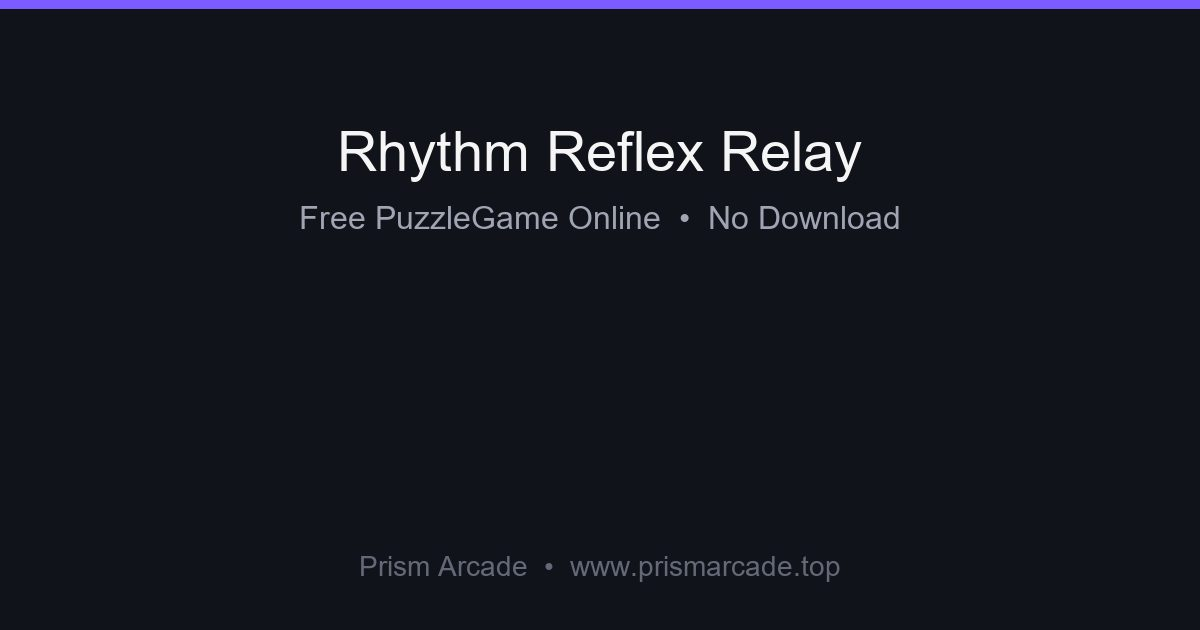
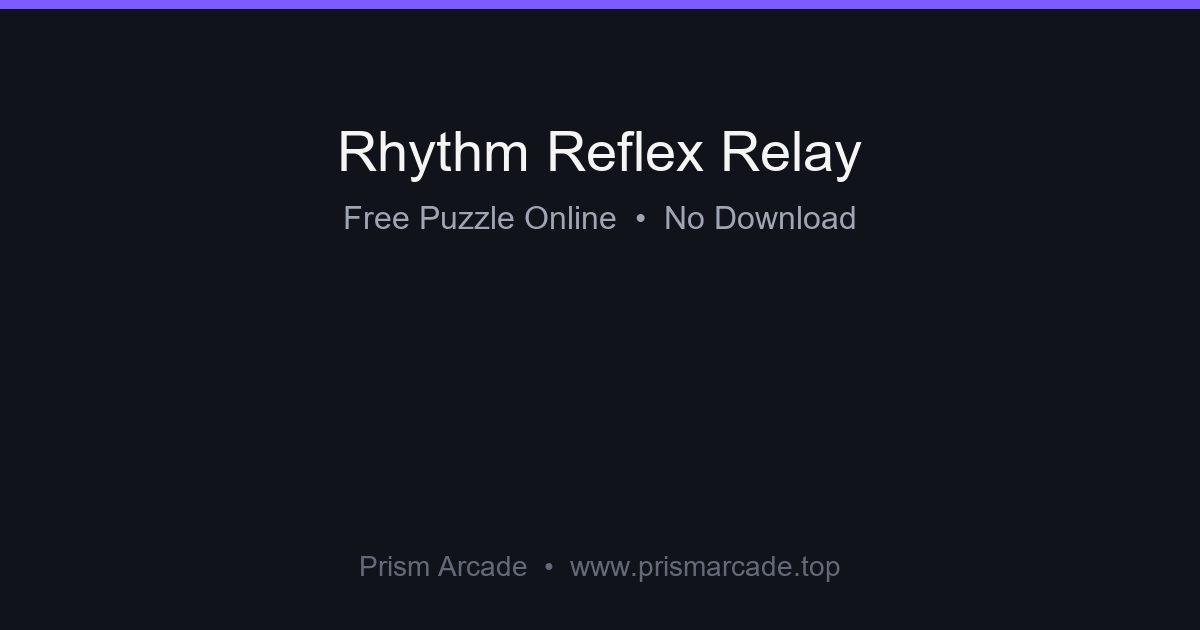
Refresh OG images to new brand + fix category label
- tools/seo_games_data.json: 'Flappy Bird' -> 'Sky Flap' in all 12 refs.
- tools/gen_og_images.py: map schema.org category enums to human labels
  (PuzzleGame->Puzzle, ActionGame->Action, ...) so the OG image no longer
  prints 'Free ActionGame Online'.
- Regenerated all 20 og/*.jpg (home/about + 18 games).

Changed region(s): [[0.2467, 0.3317, 0.7708, 0.3619]]

diff --git a/tools/gen_og_images.py b/tools/gen_og_images.py
@@ -30,6 +30,21 @@ GAMES_DATA = BASE / "seo_games_data.json"
 
 W, H = 1200, 630
 
+# schema.org game category enum -> human-readable label for the OG image.
+CATEGORY_LABEL = {
+    "PuzzleGame": "Puzzle",
+    "ActionGame": "Action",
+    "BoardGame": "Board Game",
+    "TriviaGame": "Trivia",
+    "CardGame": "Card",
+    "ArcadeGame": "Arcade",
+    "PartyGame": "Party",
+}
+
+
+def category_label(tag: str) -> str:
+    return CATEGORY_LABEL.get(tag, tag)
+
 
 def find_font(size: int) -> ImageFont.FreeTypeFont | ImageFont.ImageFont:
     """Try a few common font locations; fall back to default."""
@@ -107,7 +122,7 @@ def main():
         tag = d.get("category", "Game")
         render_og(OG_DIR / "games" / slug.replace(".html", ".jpg"), [
             name,
-            f"Free {tag} Online  •  No Download",
+            f"Free {category_label(tag)} Online  •  No Download",
         ])
 
     print(f"Done. Generated {2 + len(data)} OG images in {OG_DIR}")
